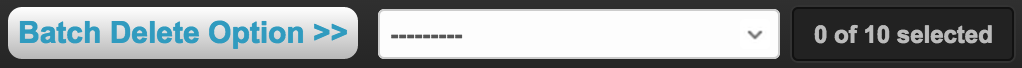
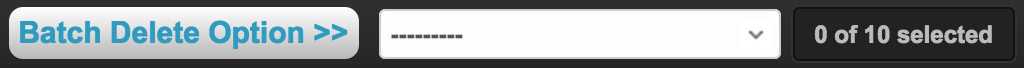
Moved UI elements of the menu to the right and updated 'Quick Start Guide'

diff --git a/wsgi/openshift/templates/admin/change_list.html b/wsgi/openshift/templates/admin/change_list.html
@@ -1,0 +1,252 @@
+{% extends "admin/base_site.html" %}
+
+<!-- LOADING -->
+{% load i18n grp_tags admin_urls admin_static admin_list %}
+
+<!-- STYLESHEETS -->
+{% block stylesheets %}
+    {{ block.super }}
+    {{ media.css }}
+{% endblock %}
+
+<!-- JAVASCRIPTS -->
+{% block javascripts %}
+    {{ block.super }}
+    {{ media.js }}
+    {% if cl.formset or action_form %}
+        {% url 'admin:jsi18n' as jsi18nurl %}
+        <script type="text/javascript" src="{{ jsi18nurl|default:'../../jsi18n/'}}"></script>
+    {% endif %}
+    {% if action_form %}
+        <script type="text/javascript" charset="utf-8">
+            (function($) {
+                $(document).ready(function() {
+                    $("tr input.action-select").actions();
+                });
+            })(grp.jQuery);
+        </script>
+    {% endif %}
+    {% if cl.formset %}
+        <script type="text/javascript" charset="utf-8">
+            (function($) {
+                $(document).ready(function() {
+                    grappelli.initDateAndTimePicker();
+                    var prefix = "form";
+                    var related_lookup_fields_fk = {% get_related_lookup_fields_fk cl.model_admin %};
+                    var related_lookup_fields_m2m = {% get_related_lookup_fields_m2m cl.model_admin %};
+                    var related_lookup_fields_generic = {% get_related_lookup_fields_generic cl.model_admin %};
+                    var autocomplete_fields_fk = {% get_autocomplete_lookup_fields_fk cl.model_admin %};
+                    var autocomplete_fields_m2m = {% get_autocomplete_lookup_fields_m2m cl.model_admin %};
+                    var autocomplete_fields_generic = {% get_autocomplete_lookup_fields_generic cl.model_admin %};
+                    $.each(related_lookup_fields_fk, function() {
+                        $("div.grp-changelist-results")
+                        .find("input[name^='" + prefix + "'][name$='" + this + "']")
+                        .grp_related_fk({lookup_url:"{% url 'grp_related_lookup' %}"});
+                    });
+                    $.each(related_lookup_fields_m2m, function() {
+                        $("div.grp-changelist-results")
+                        .find("input[name^='" + prefix + "'][name$='" + this + "']")
+                        .grp_related_m2m({lookup_url:"{% url 'grp_m2m_lookup' %}"});
+                    });
+                    $.each(related_lookup_fields_generic, function() {
+                        var content_type = this[0],
+                            object_id = this[1];
+                        $("div.grp-changelist-results")
+                        .find("input[name^='" + prefix + "'][name$='" + this[1] + "']")
+                        .each(function() {
+                            var ct_id = "#id_" + prefix + "-" + $(this).attr("id").split("-")[1] + "-" + content_type,
+                                obj_id = "#id_" + prefix + "-" + $(this).attr("id").split("-")[1] + "-" + object_id;
+                            $(this).grp_related_generic({content_type:ct_id, object_id:obj_id, lookup_url:"{% url 'grp_related_lookup' %}"});
+                        });
+                    });
+                    $.each(autocomplete_fields_fk, function() {
+                        $("div.grp-changelist-results")
+                        .find("input[name^='" + prefix + "'][name$='" + this + "']")
+                        .each(function() {
+                            $(this).grp_autocomplete_fk({
+                                lookup_url:"{% url 'grp_related_lookup' %}",
+                                autocomplete_lookup_url:"{% url 'grp_autocomplete_lookup' %}"
+                            });
+                        });
+                    });
+                    $.each(autocomplete_fields_m2m, function() {
+                        $("div.grp-changelist-results")
+                        .find("input[name^='" + prefix + "'][name$='" + this + "']")
+                        .each(function() {
+                            $(this).grp_autocomplete_m2m({
+                                lookup_url:"{% url 'grp_m2m_lookup' %}",
+                                autocomplete_lookup_url:"{% url 'grp_autocomplete_lookup' %}"
+                            });
+                        });
+                    });
+                    $.each(autocomplete_fields_generic, function() {
+                        var content_type = this[0],
+                            object_id = this[1];
+                        $("div.grp-changelist-results")
+                        .find("input[name^='" + prefix + "'][name$='" + this[1] + "']")
+                        .each(function() {
+                            var i = $(this).attr("id").match(/-\d+-/);
+                            if (i) {
+                                var ct_id = "#id_" + prefix + i[0] + content_type,
+                                    obj_id = "#id_" + prefix + i[0] + object_id;
+                                $(this).grp_autocomplete_generic({
+                                    content_type:ct_id,
+                                    object_id:obj_id,
+                                    lookup_url:"{% url 'grp_related_lookup' %}",
+                                    autocomplete_lookup_url:"{% url 'grp_autocomplete_lookup' %}"
+                                });
+                            }
+                        });
+                    });
+                    // reset actions select box
+                    $('.grp-changelist-actions select').val(-1);
+                    // find errors and move (because errors should be below form elements)
+                    $("ul.errorlist").each(function() {
+                        $(this).parents("td").append($(this));
+                    });
+                    // HACK: get rid of currently/change with URL–fields. F**K!!!
+                    $('p.url').each(function() {
+                        $(this).find("a").remove();
+                        var text = $(this).html();
+                        text = text.replace(/^\w*: /, "");
+                        text = text.replace(/<br>.*: /, "");
+                        $(this).html(text);
+                    });
+                });
+            })(grp.jQuery);
+        </script>
+    {% endif %}
+    <script type="text/javascript" charset="utf-8">
+        (function($) {
+            $(document).ready(function() {
+                grappelli.initSearchbar();
+                grappelli.initFilter();
+            });
+        })(grp.jQuery);
+    </script>
+{% endblock %}
+
+<!-- COLTYPE/BODYCLASS-- >
+{% block bodyclass %}grp-change-list{% endblock %}
+{% block content-class %}{% endblock %}
+
+<!-- BREADCRUMBS -- >
+{% block breadcrumbs %}
+    {% if not is_popup %}
+        <ul class="grp-horizontal-list">
+            <li><a href="{% url 'admin:index' %}">{% trans "Home" %}</a></li>
+            <li><a href="{% url 'admin:app_list' app_label=cl.opts.app_label %}">{% trans app_label|capfirst|escape %}</a></li>
+            <li>{{ cl.opts.verbose_name_plural|capfirst }}</li>
+        </ul>
+    {% endif %}
+{% endblock %}
+
+<!-- CONTENT-TITLE -->
+{% block content_title %}
+    <h1>{{ cl.opts.verbose_name_plural|capfirst }}</h1>
+{% endblock %}
+
+<!-- OBJECT-TOOLS -->
+{% block object-tools %}
+    {% if has_add_permission %}
+        <ul class="grp-object-tools">
+            {% block object-tools-items %}
+                {% url cl.opts|admin_urlname:'add' as add_url %}
+                <li><a href="{% add_preserved_filters add_url is_popup %}" class="addlink">{% blocktrans with cl.opts.verbose_name as name %}Add {{ name }}{% endblocktrans %}</a></li>
+            {% endblock %}
+        </ul>
+    {% endif %}
+{% endblock %}
+
+<!-- CONTENT -->
+{% block content %}
+    {% if cl.search_fields or cl.has_filters or cl.date_hierarchy %}
+        <div class="grp-module">
+            <div class="grp-row">
+                <div class="l-2cr-fluid {% if cl.has_filters and cl.search_fields %}l-d-12{% else %}{% if cl.has_filters or cl.search_fields %}l-d-6{% endif %}{% endif %}">
+                    {% if cl.has_filters or cl.search_fields %}
+                        {% block aside %}
+                            <aside class="c-1">
+                                <header style="display:none"><h1>{% if cl.search_fields %}Search{% if cl.has_filters %} &amp; {% endif %}{% endif %}{% if cl.has_filters %}Filters{% endif %}</h1></header>
+                                <!-- SEARCH -->
+                                {% if cl.search_fields %}
+                                    {% block search %}
+                                        <div id="search" class="g-d-6 g-d-f">
+                                            {% search_form cl %}
+                                        </div>
+                                    {% endblock %}
+                                {% endif %}
+                                <!-- FILTERS -->
+                                {% if cl.has_filters %}
+                                    {% block filters %}
+                                        <div id="grp-filters" class="g-d-6 g-d-l">
+                                            <div class="grp-filter">
+                                                <div class="grp-pulldown-container">
+                                                    <a href="javascript://" class="grp-button grp-pulldown-handler">{% trans 'Filter' %}</a>
+                                                    <div class="grp-pulldown-content" style="display: none;">
+                                                        {% for spec in cl.filter_specs %}{% admin_list_filter cl spec %}{% endfor %}
+                                                    </div>
+                                                </div>
+                                            </div>
+                                        </div>
+                                    {% endblock %}
+                                {% endif %}
+                            </aside>
+                        {% endblock %}
+                    {% endif %}
+                    {% block pagination_top %}
+                        <div class="c-2">
+                            <!-- PAGINATION TOP -->
+                            {% pagination cl %}
+                        </div>
+                    {% endblock %}
+
+                </div>
+            </div>
+            <!-- DATE HIERARCHY -->
+            {% block date_hierarchy %}
+                {% if cl.date_hierarchy %}{% date_hierarchy cl %}{% endif %}
+            {% endblock %}
+        </div>
+    {% endif %}
+    <form id="grp-changelist-form" action="" method="post"{% if cl.formset.is_multipart %} enctype="multipart/form-data"{% endif %}>{% csrf_token %}
+        <section id="grp-changelist" class="{% if cl.list_editable %} grp-editable{% endif %}">
+            <header style="display:none"><h1>Results</h1></header>
+            <!-- POPUP -->
+            {% if is_popup %}<input type="hidden" name="_popup" value="1" />{% endif %}
+            <!-- ERRORS -->
+            {% if cl.formset.errors %}
+                <p class="errornote">
+                    {% if cl.formset.total_error_count == 1 %}{% trans "Please correct the error below." %}{% else %}{% trans "Please correct the errors below." %}{% endif %}
+                </p>
+                {{ cl.formset.non_form_errors }}
+            {% endif %}
+            <!-- MANAGEMENT FORM -->
+            {% if cl.formset %}
+                {{ cl.formset.management_form }}
+            {% endif %}
+            <!-- CHANGELIST-RESULTS -->
+            {% block result_list %}
+                {% result_list cl %}
+            {% endblock %}
+        </section>
+        <!-- PAGINATION BOTTOM -->
+        {% if not cl.result_count == 0 %}
+            {% block pagination_bottom %}
+                <div class="grp-module">
+                    <div class="grp-row">{% pagination cl %}</div>
+                </div>
+            {% endblock %}
+        {% endif %}
+        <!-- SUBMIT ROW -->
+        {% if cl.formset or action_form %}
+            <footer id="submit" class="grp-module grp-submit-row grp-fixed-footer">
+                <header style="display:none"><h1>Submit Options</h1></header>
+                <ul>
+                    {% if action_form %}<li class="grp-float-right grp-changelist-actions">{% admin_actions %}</li>{% endif %}
+                    {% if cl.formset %}<li><input type="submit" class="grp-button grp-default" name="_save" value="{% trans "Save" %}"/></li>{% endif %}
+                </ul>
+            </footer>
+        {% endif %}
+    </form>
+{% endblock %}

diff --git a/wsgi/openshift/import_export/templates/admin/import_export/change_list.html b/wsgi/openshift/import_export/templates/admin/import_export/change_list.html
@@ -264,9 +264,9 @@
 						<li>
 							You can select all entries by checking the checkbox&nbsp;<img alt="entry_checkbox_unselected" src="/media/guide/entry_checkbox_unselected.png" style="width: 23px; height: 25px; border-width: 1px; border-style: solid; display: inline;" />&nbsp;in the same row as&nbsp;the column names of the list view.&nbsp;</li>
 						<li>
-							You can perform batch delete operation to the selected entries with the batch delete menu (see <strong>Figure 4.1</strong>) at&nbsp;the lower left of the list view. The batch delete menu displays the number of selected entries of the total.<img alt="batch_delete_menu" src="/media/guide/batch_delete_menu.png" style="width: 571px; height: 38px; border-width: 1px; border-style: solid;" /><br /><strong style="font-size: 10px;">Figure 4.1: Batch delete menu</strong></li>
+							You can perform batch delete operation to the selected entries with the batch delete menu (see <strong>Figure 4.1</strong>) at&nbsp;the lower right of the list view. The batch delete menu displays the number of selected entries of the total.<img alt="batch_delete_menu" src="/media/guide/batch_delete_menu.png" style="width: 571px; height: 38px; border-width: 1px; border-style: solid;" /><br /><strong style="font-size: 10px;">Figure 4.1: Batch delete menu</strong></li>
 						<li>
-							You can click on the blank box of the batch delete menu and a&nbsp;pop-up window with the delete option&nbsp;(see <strong>Figure 4.2</strong>)&nbsp;would appear for you to apply the deletion of multiple entries.<img alt="batch_delete_menu_popup" src="/media/guide/batch_delete_menu_popup.png" style="width: 460px; height: 100px; border-width: 1px; border-style: solid;" /><br /><strong style="font-size: 10px;">Figure 4.2: Batch delete menu popup</strong></li>
+							You can click on the blank box of the batch delete menu and a&nbsp;pop-up window with the delete option&nbsp;(see <strong>Figure 4.2</strong>)&nbsp;would appear for you to apply the deletion of multiple entries.<img alt="batch_delete_menu_popup" src="/media/guide/batch_delete_menu_popup.png" style="width: 460px; height: 99px; border-width: 1px; border-style: solid;" /><br /><strong style="font-size: 10px;">Figure 4.2: Batch delete menu popup</strong></li>
 					</ol>
 				  <br /><br /><br /><br />
 					<p><a name="import"></a></p>
@@ -451,11 +451,11 @@
 		                <header style="display:none"><h1>Submit Options</h1></header>
 		                <ul>
 		                    {% if action_form %}
-														{% if request.user.is_superuser or perms.observations.change_observation and not perms.observations.readonly_observation %}
-																<li id="batch-delete-title" class="addlink" title="The below batch delete menu is for deleting the multiple selected observation entries.">{% blocktrans with cl.opts.verbose_name as name %}Batch Delete Option >>{% endblocktrans %}</li>
-																<li id="batch-delete-option" class="grp-float-left grp-changelist-actions">{% admin_actions %}</li>
-														{% endif %}
-												{% endif %}
+                            {% if request.user.is_superuser or perms.observations.change_observation and not perms.observations.readonly_observation %}
+                                <li class="grp-float-right grp-changelist-actions">{% admin_actions %}</li>
+                                <li id="batch-delete-title" class="grp-float-right addlink" title="The below batch delete menu is for deleting the multiple selected observation entries.">{% blocktrans with cl.opts.verbose_name as name %}Batch Delete Option >>{% endblocktrans %}</li>
+                            {% endif %}
+                        {% endif %}
 		                    {% if cl.formset %}<li><input type="submit" class="grp-button grp-default" name="_save" value="{% trans "Save" %}"/></li>{% endif %}
 		                </ul>
 		            </footer>

diff --git a/wsgi/openshift/templates/filebrowser/detail.html b/wsgi/openshift/templates/filebrowser/detail.html
@@ -167,7 +167,7 @@
         <footer class="grp-module grp-submit-row grp-fixed-footer">
             <header style="display:none"><h1>Submit Options</h1></header>
             <ul>
-                <li class="grp-float-right"><a href="{% url 'filebrowser:fb_delete_confirm' %}{% query_string %}" class="grp-button grp-delete-link">{% trans "Delete" %}</a></li>
+                <li class="grp-float-right"><a href="{% url 'filebrowser:fb_delete_confirm' %}{% query_string %}" class="grp-button grp-default">{% trans "Delete" %}</a></li>
                 <li><input type="submit" value="{% trans 'Save' %}" class="grp-button grp-default" /></li>
                 <li><input type="submit" value="{% trans 'Save and continue editing' %}" class="grp-button" name="_continue" /></li>
             </ul>

diff --git a/wsgi/openshift/templates/admin/submit_line.html b/wsgi/openshift/templates/admin/submit_line.html
@@ -3,7 +3,7 @@
     <header style="display:none"><h1>Submit Options</h1></header>
     <ul>
         {% if show_delete_link %}
-            <li class="grp-float-right"><a href="delete/" class="grp-button grp-delete-link">{% trans "Delete" %}</a></li>
+            <li class="grp-float-right"><a href="delete/" class="grp-button grp-default">{% trans "Delete" %}</a></li>
         {% endif %}
         {% if show_save %}
         	<li><input type="submit" value="{% trans 'Save' %}" class="grp-button grp-default" name="_save" {{ onclick_attrib }}/></li>

diff --git a/wsgi/openshift/observations/static/observations.css b/wsgi/openshift/observations/static/observations.css
@@ -112,17 +112,11 @@ body.grp-login .grp-module-login h1 span.grp-admin-title {
 }
 
 #batch-delete-title {
-  float: left;
   margin-top: 5px;
-  margin-left: -5px;
   font-size: 15px;
   background: linear-gradient(#ffffff,#B8B8B8);
   color: #309bbf;
   font-weight: bold;
-}
-
-#batch-delete-option {
-  margin-left: 10px;
 }
 
 .ui-tooltip {
